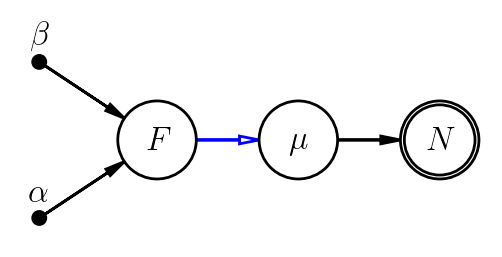
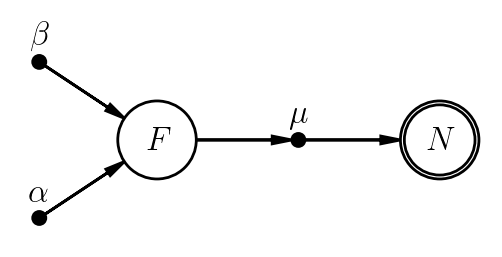
changed display of deterministic nodes in hierarchical chunk

diff --git a/graphics/hier.py b/graphics/hier.py
@@ -4,17 +4,15 @@ import daft
 rc("font", family="serif", size=12)
 rc("text", usetex=True)
 
-determ = {'ec':'#0000FF', 'fc':'#FFFFFF'}
-
 pgm = daft.PGM([3.2, 1.65], observed_style="inner")
 pgm.add_node(daft.Node("alpha", r"$\alpha$", 0.25, 0.25, fixed=True))
 pgm.add_node(daft.Node("beta", r"$\beta$", 0.25, 1.25, fixed=True))
 pgm.add_node(daft.Node("F", r"$F$", 1.0, 0.75))
-pgm.add_node(daft.Node("mu", r"$\mu$", 1.9, 0.75))
+pgm.add_node(daft.Node("mu", r"$\mu$", 1.9, 0.75, fixed=True))
 pgm.add_node(daft.Node("N", r"$N$", 2.8, 0.75, observed=True))
 pgm.add_edge("alpha", "F")
 pgm.add_edge("beta", "F")
-pgm.add_edge("F", "mu", **determ)
+pgm.add_edge("F", "mu")
 pgm.add_edge("mu", "N")
 pgm.render()
 pgm.figure.savefig("hier_poissoneg_pgm1.png", dpi=200)
@@ -23,21 +21,21 @@ pgm = daft.PGM([3.2, 2.25], observed_style="inner")
 pgm.add_node(daft.Node("alphab", r"$\alpha_b$", 0.25, 0.25, fixed=True))
 pgm.add_node(daft.Node("betab", r"$\beta_b$", 0.25, 0.75, fixed=True))
 pgm.add_node(daft.Node("Fb", r"$F_b$", 1.0, 0.5))
-pgm.add_node(daft.Node("mub", r"$\mu_b$", 1.9, 0.5))
+pgm.add_node(daft.Node("mub", r"$\mu_b$", 1.9, 0.5, fixed=True))
 pgm.add_node(daft.Node("Nb", r"$N_b$", 2.8, 0.5, observed=True))
 pgm.add_edge("alphab", "Fb")
 pgm.add_edge("betab", "Fb")
-pgm.add_edge("Fb", "mub", **determ)
+pgm.add_edge("Fb", "mub")
 pgm.add_edge("mub", "Nb")
 pgm.add_node(daft.Node("alphag", r"$\alpha_g$", 0.25, 1.4, fixed=True))
 pgm.add_node(daft.Node("betag", r"$\beta_g$", 0.25, 1.9, fixed=True))
 pgm.add_node(daft.Node("Fg", r"$F_g$", 1.0, 1.65))
-pgm.add_node(daft.Node("mus", r"$\mu_s$", 1.9, 1.25))
+pgm.add_node(daft.Node("mus", r"$\mu_s$", 1.9, 1.25, fixed=True))
 pgm.add_node(daft.Node("Ns", r"$N_s$", 2.8, 1.25, observed=True))
 pgm.add_edge("alphag", "Fg")
 pgm.add_edge("betag", "Fg")
-pgm.add_edge("Fg", "mus", **determ)
-pgm.add_edge("Fb", "mus", **determ)
+pgm.add_edge("Fg", "mus")
+pgm.add_edge("Fb", "mus")
 pgm.add_edge("mus", "Ns")
 pgm.render()
 pgm.figure.savefig("hier_poissoneg_pgm2.png", dpi=200)
